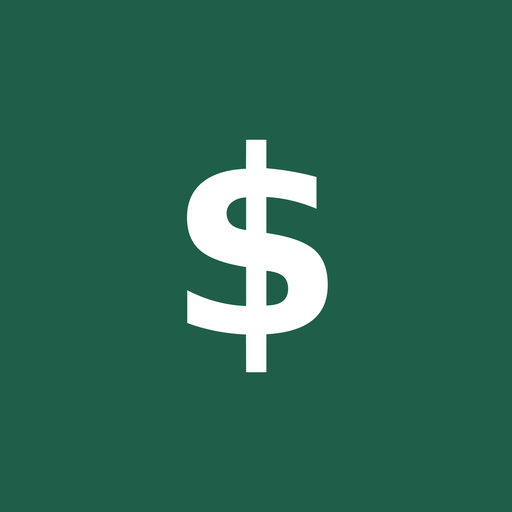
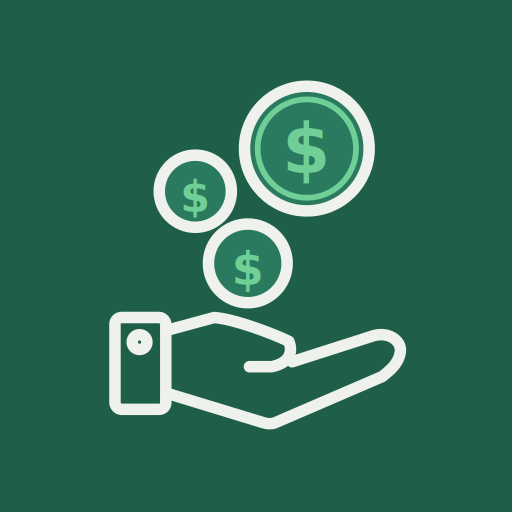
Add files via upload

Changed region(s): [[0.1875, 0.1562, 0.8125, 0.8438]]

diff --git a/index.html b/index.html
@@ -213,9 +213,9 @@ tfoot td{font-weight:800;border-bottom:0}
 </main>
 <script>
 const KEY="mesero-propinas-v1";
-const PW="1129";
-let S={name:"",entries:[],moche:5,meta:0,closed:{d:{},w:{}},lastBackup:0},tab="hoy",off=0,mo=0,vo=0,editId=null,delId=null,mstep=0,mmsg="",aj=false;
-try{const r=localStorage.getItem(KEY);if(r){const p=JSON.parse(r);S.entries=Array.isArray(p.entries)?p.entries:[];if(typeof p.name==="string")S.name=p.name.trim().slice(0,30);if(+p.moche>=0)S.moche=+p.moche;if(+p.meta>0)S.meta=+p.meta;if(p.closed&&p.closed.d&&p.closed.w)S.closed=p.closed;if(+p.lastBackup>0)S.lastBackup=+p.lastBackup}}catch(e){}
+const sha=async t=>[...new Uint8Array(await crypto.subtle.digest("SHA-256",new TextEncoder().encode("propinas:"+t)))].map(b=>b.toString(16).padStart(2,"0")).join("");
+let S={pin:"",name:"",entries:[],moche:5,meta:0,closed:{d:{},w:{}},lastBackup:0},tab="hoy",off=0,mo=0,vo=0,editId=null,delId=null,mstep=0,mmsg="",aj=false;
+try{const r=localStorage.getItem(KEY);if(r){const p=JSON.parse(r);S.entries=Array.isArray(p.entries)?p.entries:[];if(typeof p.pin==="string")S.pin=p.pin;if(typeof p.name==="string")S.name=p.name.trim().slice(0,30);if(+p.moche>=0)S.moche=+p.moche;if(+p.meta>0)S.meta=+p.meta;if(p.closed&&p.closed.d&&p.closed.w)S.closed=p.closed;if(+p.lastBackup>0)S.lastBackup=+p.lastBackup}}catch(e){}
 const $=id=>document.getElementById(id);
 const save=()=>{try{localStorage.setItem(KEY,JSON.stringify(S))}catch(e){}};
 const money=n=>(n<0?"-":"")+"$"+Math.abs(n).toLocaleString("es-MX",{minimumFractionDigits:2,maximumFractionDigits:2});
@@ -232,7 +232,7 @@ function upd(){const a=num($("cuenta").value),t=tipNow(),m=a*S.moche/100;if(pct)
 function mrender(){
   const h=$("mlock"),m=mmsg?'<div class="prev" role="status">'+mmsg+'</div>':'';
   if(mstep===0)h.innerHTML='<button class="gh" style="margin-top:10px;width:100%" data-mchange="1">Cambiar moche</button>'+m;
-  else if(mstep===1)h.innerHTML='<div class="row"><input id="pw" type="password" inputmode="numeric" placeholder="Contraseña" autocomplete="off" aria-label="Contraseña"><button class="btn" data-mok="1">Entrar</button><button class="gh" data-mcancel="1">Cancelar</button></div>'+m;
+  else if(mstep===1)h.innerHTML='<div class="row"><input id="pw" type="password" inputmode="numeric" placeholder="'+(S.pin?"Contraseña":"Crea una contraseña")+'" autocomplete="off" aria-label="Contraseña"><button class="btn" data-mok="1">Entrar</button><button class="gh" data-mcancel="1">Cancelar</button></div>'+m;
   else h.innerHTML='<div class="row"><button class="btn" style="flex:1" data-msave="1">Guardar moche</button><button class="gh" style="flex:1" data-mcancel="1">Cancelar</button></div>'+m;
 }
 function setNeto(el,n){el.textContent=money(n);el.classList.toggle("neg",n<0)}
@@ -329,7 +329,7 @@ document.addEventListener("click",e=>{
   const cn=e.target.closest("[data-cancel]");if(cn){editId=null;delId=null;render();return}
   const sv=e.target.closest("[data-save]");if(sv){const x=S.entries.find(y=>String(y.id)===sv.dataset.save),a=num($("ed-a").value);if(x&&a){x.amount=a;if(x.type==="cuenta"){x.tip=num($("ed-t").value);const nn=$("ed-n").value.trim().slice(0,40);if(nn||!x.nombre)x.nombre=nn}}editId=null;save();render();return}
   if(e.target.closest("[data-mchange]")){mstep=1;mmsg="";render();setTimeout(()=>{const x=$("pw");if(x)x.focus()},0);return}
-  if(e.target.closest("[data-mok]")){const x=$("pw");if(x&&x.value.trim()===PW){mstep=2;mmsg="";render();setTimeout(()=>$("cfg-m").focus(),0)}else{mmsg="Contraseña incorrecta.";render();setTimeout(()=>{const y=$("pw");if(y)y.focus()},0)}return}
+  if(e.target.closest("[data-mok]")){const x=$("pw"),v=x?x.value.trim():"";(async()=>{if(!v)return;const h=await sha(v);if(!S.pin){S.pin=h;save();mstep=2;mmsg="Contraseña creada.";render();setTimeout(()=>$("cfg-m").focus(),0)}else if(h===S.pin){mstep=2;mmsg="";render();setTimeout(()=>$("cfg-m").focus(),0)}else{mmsg="Contraseña incorrecta.";render();setTimeout(()=>{const y=$("pw");if(y)y.focus()},0)}})();return}
   if(e.target.closest("[data-mcancel]")){$("cfg-m").blur();mstep=0;mmsg="";render();return}
   if(e.target.closest("[data-msave]")){const v=parseFloat(String($("cfg-m").value).replace(",","."));if(!(v>=0&&v<=100)){mmsg="Escribe un número entre 0 y 100.";render();return}S.moche=v;save();$("cfg-m").blur();mstep=0;mmsg="Moche actualizado.";render();return}
   const dk=e.target.closest("[data-delok]");if(dk){S.entries=S.entries.filter(x=>String(x.id)!==dk.dataset.delok);delId=null;save();render();return}
@@ -368,7 +368,7 @@ function restore(f){
     const p=JSON.parse(r.result);if(!p||!Array.isArray(p.entries))throw 0;
     const ok=p.entries.filter(e=>e&&(e.type==="cuenta"||e.type==="propina")&&e.amount>0&&e.ts>0);
     if(!confirm("Esto reemplaza lo que tienes ahora por el respaldo ("+ok.length+" movimientos). ¿Continuar?"))return;
-    S.entries=ok.map(e=>({id:e.id||Date.now()+Math.random(),type:e.type,amount:+e.amount,tip:+e.tip>0?+e.tip:0,ts:+e.ts}));
+    S.entries=ok.map(e=>({id:e.id||Date.now()+Math.random(),type:e.type,amount:+e.amount,tip:+e.tip>0?+e.tip:0,ts:+e.ts,nombre:String(e.nombre||"").slice(0,40),man:e.man?1:0}));
     if(+p.moche>=0)S.moche=+p.moche;S.meta=+p.meta>0?+p.meta:0;
     S.closed=p.closed&&p.closed.d&&p.closed.w?p.closed:{d:{},w:{}};
     save();render();msg("Respaldo restaurado.");
